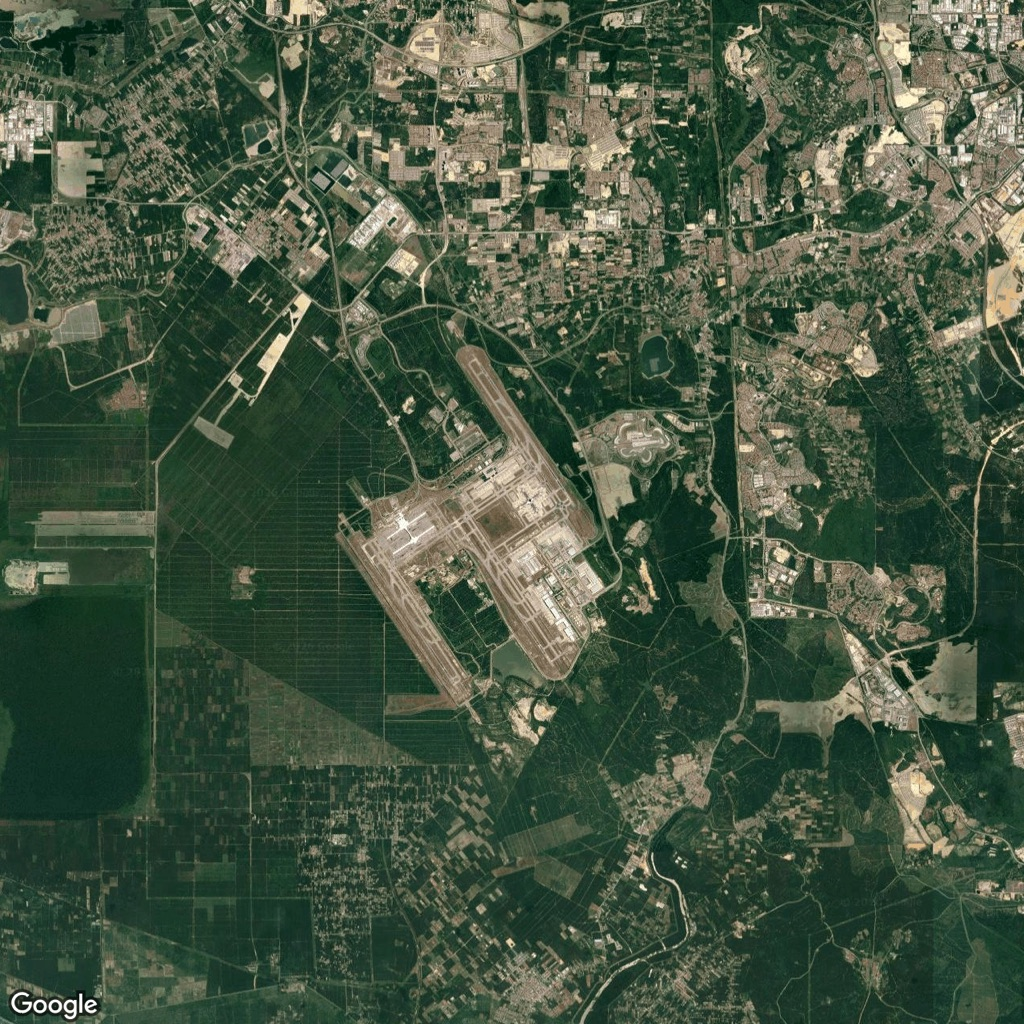
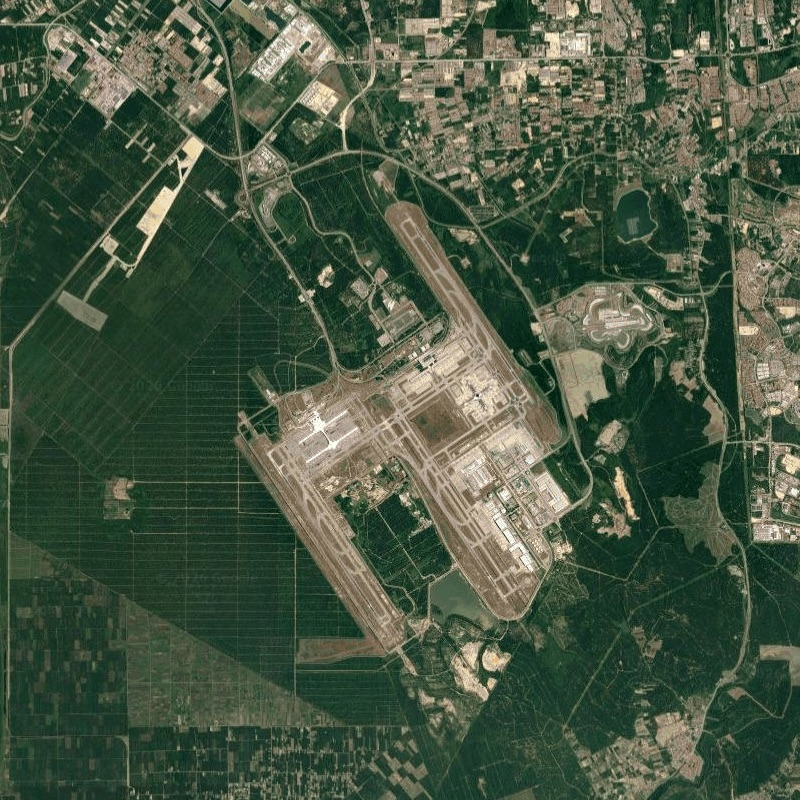
Fix the Mumbai and KUL images by cropping, not re-fetching
Both defects turned out to be fixable with no API call at all, which matters
because the key that fetched this set was on an expired free trial.

Mumbai's fetch had a plain white missing-imagery block over its lower-left
quadrant. That quadrant is entirely open sea, so cropping it away removes the
hole and improves the composition — the peninsula now fills the frame instead
of sharing it with empty ocean. KUL framed the airfield at ~25% of the frame;
a centred crop is arithmetically the same operation as zooming in, so it now
reads at ~50% with all three runways and the Sepang circuit still in shot.

Both were cut from the 1280px originals recovered out of git history rather
than from the 1024px re-encode, so nothing was lost twice. They end up at
928px and 800px, below the frame's retina size and so marginally softer on a
high-DPI screen — a good trade against a white hole and an unreadably small
airport. The script's zoom overrides stay at 13 so a future re-fetch lands
near these crops, but a re-fetch will still overwrite them; CLAUDE.md says so.

diff --git a/src/data/satellite-world-cities.js b/src/data/satellite-world-cities.js
@@ -9,7 +9,7 @@
 // world-city-quiz-roster.md (e.g. the Eiffel Tower, not the geocoded center of
 // Paris), so the fetched image frames a recognizable feature. Every coordinate
 // here has been checked against the fetched image (round 3 of the review): each
-// frame shows the claimed city. The one open item is Mumbai — see its line below.
+// frame shows the claimed city, and nothing is left open.
 //
 // imageFile follows the City_Country.jpg convention (spaces -> underscores); a
 // country suffix is on every entry for consistency with satellite-cities.js even
@@ -27,7 +27,7 @@ export const satelliteWorldCities = [
   { name: "Bangkok", lat: 13.7500, lng: 100.4915, country: "Thailand", region: "Asia", funFact: "Home to an ornate royal palace complex along the banks of a winding river.", imageFile: "Bangkok_Thailand.jpg" },
   { name: "Dubai", lat: 25.1124, lng: 55.1390, country: "UAE", region: "Asia", funFact: "Home to the world's tallest building and a set of artificial islands shaped like palm trees.", imageFile: "Dubai_UAE.jpg" },
   { name: "Doha", lat: 25.3690, lng: 51.5510, country: "Qatar", region: "Asia", funFact: "The capital of a Gulf nation that hosted a recent FIFA World Cup.", imageFile: "Doha_Qatar.jpg" },
-  { name: "Mumbai", lat: 18.9430, lng: 72.8230, country: "India", region: "Asia", funFact: "The center of the country's film industry, located on a peninsula along the coast.", imageFile: "Mumbai_India.jpg" }, // coords OK; committed image has a missing-imagery white block over its lower-left quadrant at zoom 12 — moved to 13, MUST re-fetch and re-check
+  { name: "Mumbai", lat: 18.9430, lng: 72.8230, country: "India", region: "Asia", funFact: "The center of the country's film industry, located on a peninsula along the coast.", imageFile: "Mumbai_India.jpg" }, // image is a 928px crop of the 1280px original, see the Satellite Imagery notes
   { name: "Agra", lat: 27.1751, lng: 78.0421, country: "India", region: "Asia", funFact: "Home to a white marble mausoleum built for a deceased queen, often called one of the new seven wonders of the world.", imageFile: "Agra_India.jpg" },
   { name: "Istanbul", lat: 41.0250, lng: 28.9740, country: "Turkey", region: "Asia", funFact: "One of the few cities in the world that sits on two continents at once.", imageFile: "Istanbul_Turkey.jpg" },
   { name: "Hanoi", lat: 21.0287, lng: 105.8524, country: "Vietnam", region: "Asia", funFact: "This capital's old quarter wraps around a lake said to be home to a legendary giant turtle.", imageFile: "Hanoi_Vietnam.jpg" },

diff --git a/src/data/satellite-world-airports.js b/src/data/satellite-world-airports.js
@@ -10,7 +10,7 @@
 // airport reference point), not the city centroid, so the fetched image frames
 // the airfield. Every coordinate here has been checked against the fetched image
 // (round 3 of the review): each frame shows the claimed airfield, centered well
-// enough to play. The one open item is KUL — see its line below.
+// enough to play, and nothing is left open.
 //
 // imageFile is the IATA code + .jpg (HKG.jpg, LHR.jpg). IATA codes are globally
 // unique, so no disambiguating suffix is needed.
@@ -29,7 +29,7 @@ export const satelliteWorldAirports = [
   { name: "Incheon International", iata: "ICN", city: "Seoul", country: "South Korea", region: "Asia", lat: 37.4630, lng: 126.4407, imageFile: "ICN.jpg" }, // crop: island airport, water on multiple sides
   { name: "Singapore Changi", iata: "SIN", city: "Singapore", country: "Singapore", region: "Asia", lat: 1.3592, lng: 103.9894, imageFile: "SIN.jpg" },
   { name: "Suvarnabhumi", iata: "BKK", city: "Bangkok", country: "Thailand", region: "Asia", lat: 13.6900, lng: 100.7501, imageFile: "BKK.jpg" },
-  { name: "Kuala Lumpur International", iata: "KUL", city: "Kuala Lumpur", country: "Malaysia", region: "Asia", lat: 2.7456, lng: 101.7099, imageFile: "KUL.jpg" }, // coords OK; zoom was 12 and framed the airfield at ~25% of the frame — moved to 13, re-verify on next fetch
+  { name: "Kuala Lumpur International", iata: "KUL", city: "Kuala Lumpur", country: "Malaysia", region: "Asia", lat: 2.7456, lng: 101.7099, imageFile: "KUL.jpg" }, // image is an 800px crop of the 1280px original, see the Satellite Imagery notes
   { name: "Tan Son Nhat International", iata: "SGN", city: "Ho Chi Minh City", country: "Vietnam", region: "Asia", lat: 10.8188, lng: 106.6519, imageFile: "SGN.jpg" },
   { name: "Ninoy Aquino International", iata: "MNL", city: "Manila", country: "Philippines", region: "Asia", lat: 14.5086, lng: 121.0194, imageFile: "MNL.jpg" },
   { name: "Soekarno-Hatta International", iata: "CGK", city: "Jakarta", country: "Indonesia", region: "Asia", lat: -6.1256, lng: 106.6559, imageFile: "CGK.jpg" },

diff --git a/CLAUDE.md b/CLAUDE.md
@@ -250,15 +250,10 @@ West, Midwest, South, Southeast, Northeast, Non-contiguous).
 - **`src/data/usGeo.js`** — the us-atlas TopoJSON as GeoJSON: `nation` and `states`.
 
 **The `// VERIFY` tags are gone — all 28 were reviewed against their fetched images** (18
-cities, 10 airports; round 3 of the review). 26 came out clean: the coordinate matches the
-claimed place and the frame is playable. Two did not, and both are now precise comments on
-their own data line rather than a vague tag:
-
-- **Mumbai** — coordinate is right, but the committed image has a **plain white
-  missing-imagery block over its lower-left quadrant** at zoom 12. Zoom moved to 13, which
-  draws a different tile set; this one **must be re-fetched and re-checked**.
-- **KUL** — coordinate is right, but at zoom 12 the airfield filled only ~25% of the frame
-  and the Sepang circuit read as large as the airport. Zoom moved to 13.
+cities, 10 airports; round 3 of the review). 26 came out clean straight away. Two were
+defective and were **fixed by cropping the 1280px original out of git history**, with no
+API call — see "Two images are crops, not fetches" below. Every coordinate in both files
+is confirmed correct; the two problems were framing, not position.
 
 Two more were noted in `scripts/fetch-satellite.js` and deliberately **not** changed,
 because the current images are playable and a blind coordinate nudge can't be verified
@@ -297,6 +292,22 @@ coastline misses, not errors. **Re-run the sweep after editing any coordinate.**
   quota; note the old blobs stay in git history, so a fresh clone is unchanged in size even
   though the Pages deploy shrank. Future fetches return 1280px JPEGs straight from the API
   (`format=jpg` is already set), which is fine — no need to match 1024 exactly.
+- **Two images are crops, not fetches**, and a re-fetch would overwrite both:
+  `world-cities/Mumbai_India.jpg` is **928px** and `world-airports/KUL.jpg` is **800px**,
+  where everything else is 1024px. Mumbai's fetch came back with a **plain white
+  missing-imagery block over the lower-left quadrant** — all of it open sea, so cropping to
+  the right/lower part of the frame removed the hole *and* gave a better composition (the
+  peninsula now fills the frame instead of sharing it with empty ocean). KUL framed the
+  airfield at only ~25% of the frame, and a centred crop is arithmetically the same thing
+  as zooming in, so it now reads at ~50% with all three runways and the Sepang circuit
+  still in shot. Both were cut from the 1280px png8 originals recovered via
+  `git show 7467ee8^:<path>`, so no resolution was lost to the earlier 1024px pass. They
+  are below the frame's retina size and will look marginally softer on a high-DPI screen;
+  that was judged a good trade against a white hole and a 25%-of-frame airport. The zoom
+  overrides in the fetch script were still moved to 13 for both, so a future re-fetch
+  lands closer to these crops — but **check both images after any re-fetch of the
+  `world-cities` or `world-airports` targets**, because the fetched version will not be
+  the crop.
 - **The `airports` target fetches only `satellite-airports.js`.** It used to union that
   with `airports.js`, which is the *blank-map* pool and renders no imagery at all — so 18
   images (20.9 MB) were committed that no code path could ever load. They have been
